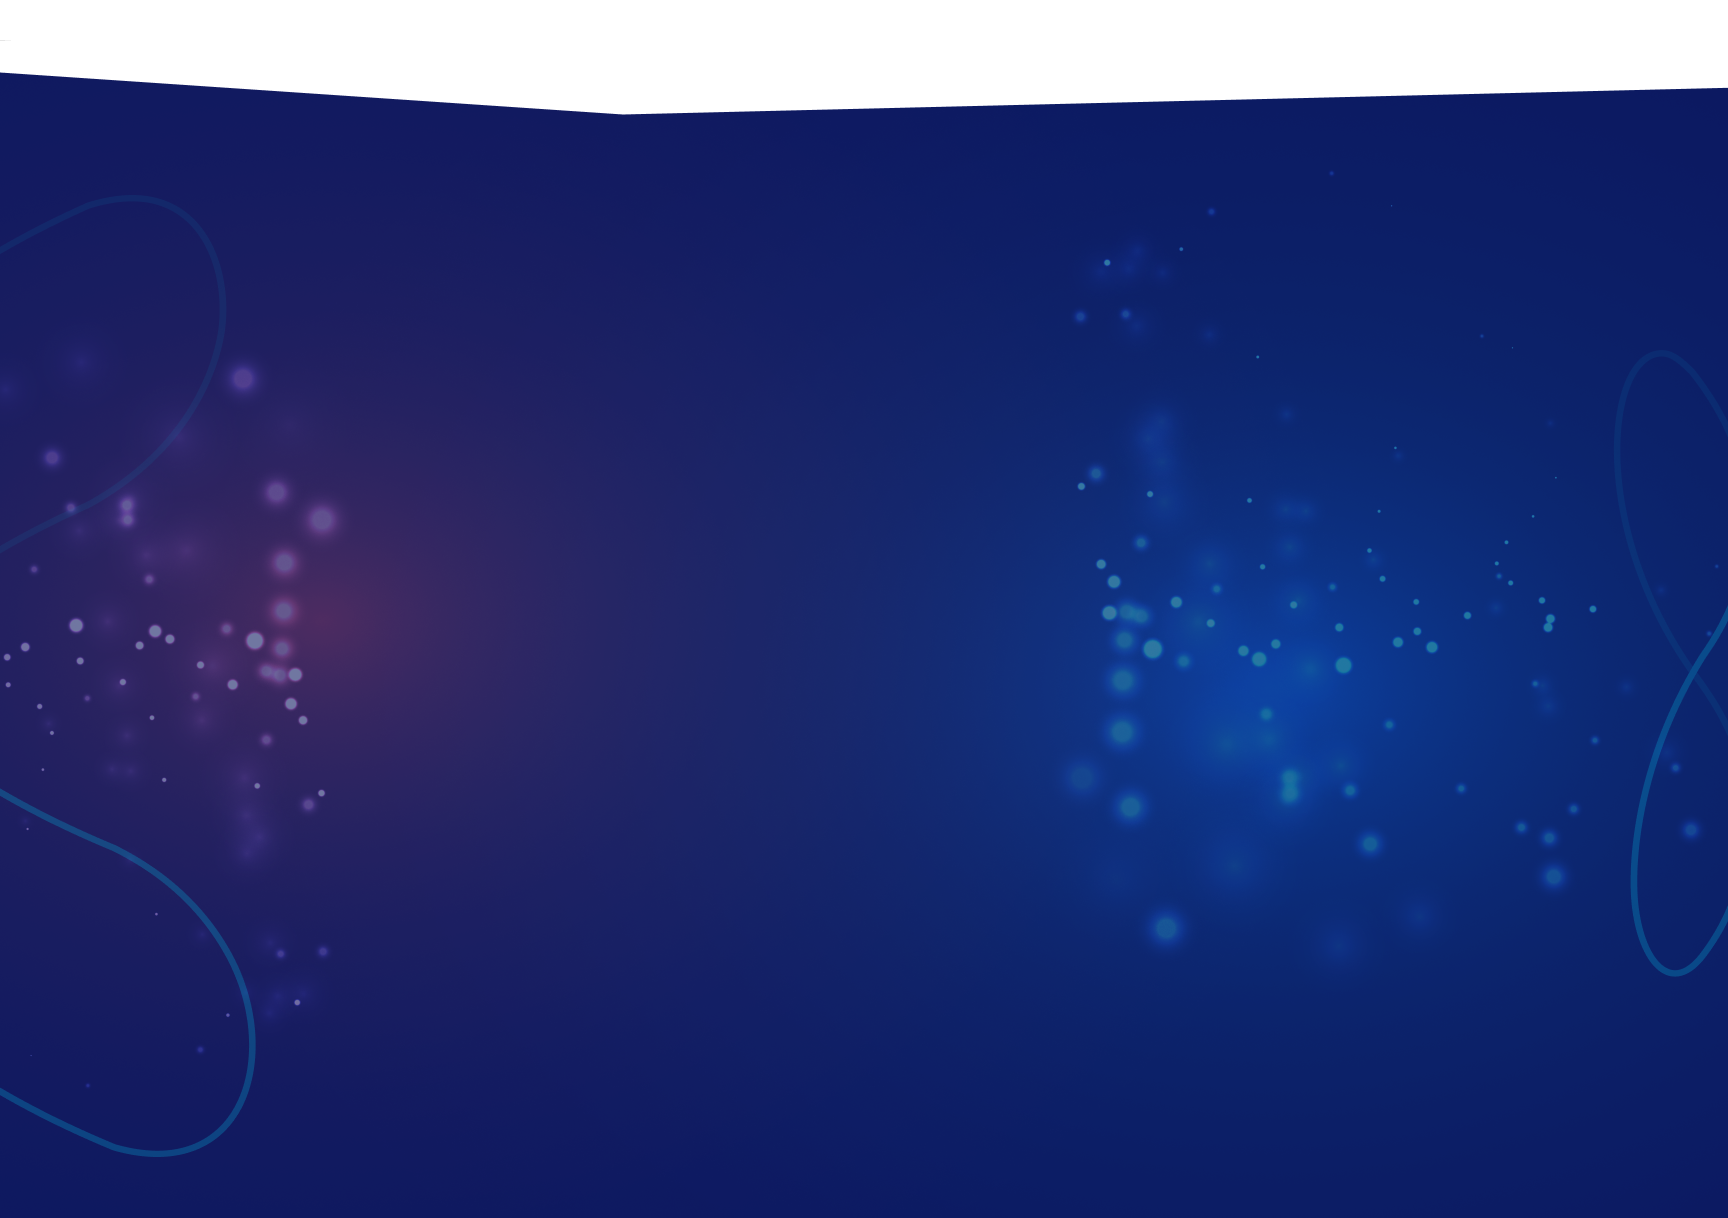
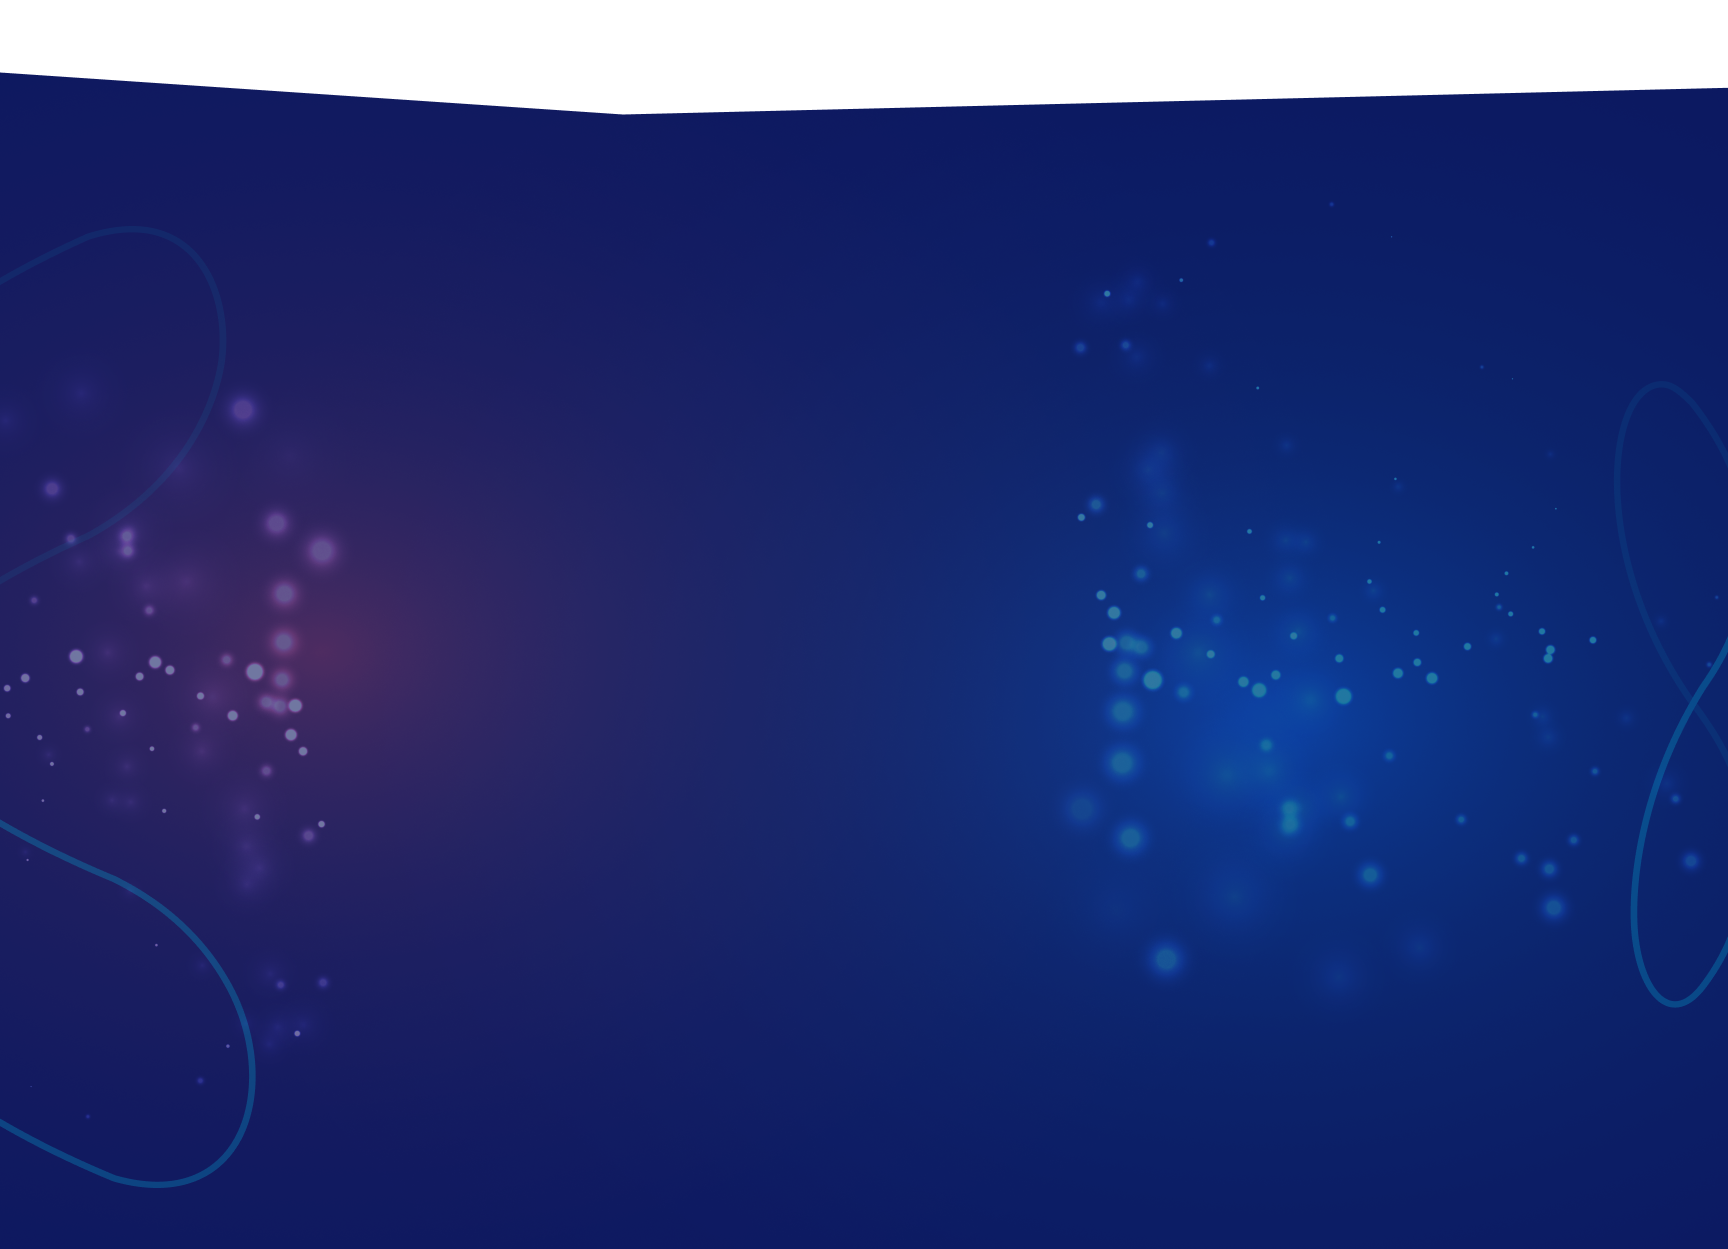
fix resopnsive

diff --git a/index.html b/index.html
@@ -106,13 +106,13 @@
                 </p>
             </div>
 
-            <div class="d-lg-inline-flex bd-highlight justify-content-lg-center col-lg-12">
+            <div class="d-lg-inline-flex bd-highlight justify-content-lg-center col-lg-12 mb-0">
                 <div class="p-2 align-self-center">
-                    <img src="./images/part-2/FPPT.png" alt="">
+                    <img src="./images/part-2/FPPT.png" alt="" class="img-fluid">
                     <p class="fs-2 text-center">FPPT</p>
                 </div>
                 <div class="p-2 align-self-center">
-                    <img src="./images/part-2/ABBC.png" alt="">
+                    <img src="./images/part-2/ABBC.png" alt="" class="img-fluid">
                     <p class="fs-2 text-center">ABBC</p>
                 </div>
             </div>
@@ -120,22 +120,25 @@
 
         <!-- Part 3 Product&Service-->
 
-        <div class="position-relative content-bg-img-2">
+        <div class="position-relative">
+            <img src="./images/part-3/bg3.png" class="content-bg-img-1" id="bgId">
 
             <div class="position-absolute top-0 start-50 translate-middle-x mt-5 text-center">
-                <p class="fs-1 text-white"> Product & Service</p>
-                <p class="fs-6 text-white "> ยกระดับธุรกิจให้เติบโต
+                <div class="mt-2">
+                </div>
+                <p class="fs-1 text-white mt-5"> Product & Service</p>
+                <p class="fs-6 text-white mb-5"> ยกระดับธุรกิจให้เติบโต
                     และสร้างรากฐานที่มั่นคงเตรียมศักยภาพความพร้อมในการแข่งขัน ที่เพิ่มขึ้นในอนาคต</p>
             </div>
 
-            <div class="position-absolute top-0 start-0 mt-5 pt-5">
+            <div class="position-absolute top-0 start-0 mt-5 pt-5" id="component4">
                 <img src="./images/part-3/Frame (1).png" alt="">
             </div>
-            <div class="position-absolute top-50 end-0 translate-middle-y mt-5 pt-5">
+            <div class="position-absolute top-50 end-0 translate-middle-y mt-5 pt-5" id="component5">
                 <img src="./images/part-3/Frame (2).png" alt="">
             </div>
 
-            <div class="position-absolute top-50 start-50 translate-middle mt-5 pt-4 text-center">
+            <div class="position-absolute top-50 start-50 translate-middle mt-5 pt-5 text-center" id="part3mobile">
                 <div class="d-md-inline-flex  flex-nowrap flex-row bd-highlight mt-5" style="height: 700px;">
                     <div class="mx-4 d-flex align-self-end mb-3 ">
                         <div class="card-1">
@@ -158,7 +161,7 @@
 
                         </div>
                     </div>
-                    <div class="mx-4 d-flex align-self-center mb-2">
+                    <div class="mx-4 d-flex align-self-center mb-3">
                         <div class="card-2 pt-5">
                             <img src="./images/part-3/Group (2).png" class="center mt-5">
                             <p class="text-white fs-2 mt-3">ระบบบริหารจัดการดิจิตอลแอสเซท</p>
@@ -253,11 +256,11 @@
 
             </div>
             <p class="text-center mt-5">Copyright © 2022 www.coreasset.fund All rights reserved.</p>
-    </div>
 
 
 
-    </footer>
+
+        </footer>
 
     </div>
     <script src="https://cdn.jsdelivr.net/npm/typed.js@2.0.12"></script>

diff --git a/script.js b/script.js
@@ -2,9 +2,11 @@ window.addEventListener('resize', function () {
   if (window.innerWidth < 1400) {
     removeComponent();
     addFont();
+    addBackGround();
   } else {
     addComponent();
     removeFont();
+    removeBackGround();
   }
 });
 
@@ -12,18 +14,26 @@ const removeComponent = () => {
   var element1 = document.getElementById('component1');
   var element2 = document.getElementById('component2');
   var element3 = document.getElementById('component3');
+  var element4 = document.getElementById('component4');
+  var element5 = document.getElementById('component5');
   element1.classList.add('hidden-component');
   element2.classList.add('hidden-component');
   element3.classList.add('hidden-component');
+  element4.classList.add('hidden-component');
+  element5.classList.add('hidden-component');
 };
 
 const addComponent = () => {
   var element1 = document.getElementById('component1');
   var element2 = document.getElementById('component2');
   var element3 = document.getElementById('component3');
+  var element4 = document.getElementById('component4');
+  var element5 = document.getElementById('component5');
   element1.classList.remove('hidden-component');
   element2.classList.remove('hidden-component');
   element3.classList.remove('hidden-component');
+  element4.classList.remove('hidden-component');
+  element5.classList.remove('hidden-component');
 };
 
 const addFont = () => {
@@ -36,4 +46,24 @@ const removeFont = () => {
   var element1 = document.getElementById('text-context');
   element1.classList.add('content-text-header-1');
   element1.classList.remove('content-text-header-2', 'text-center');
+};
+
+const addBackGround = () => {
+  document.getElementById('bgId').src = './images/part-3-mobile/bg3-mobile.png';
+  var element1 = document.getElementById('bgId');
+  var element2 = document.getElementById('part3mobile');
+  element1.classList.add('content-bg-img-2');
+  element1.classList.remove('content-bg-img-1');
+  element2.classList.add('position-mobile');
+  element2.classList.remove('top-50');
+};
+
+const removeBackGround = () => {
+  document.getElementById('bgId').src = './images/part-3/bg3.png';
+  var element1 = document.getElementById('bgId');
+  var element2 = document.getElementById('part3mobile');
+  element1.classList.add('content-bg-img-1');
+  element1.classList.remove('content-bg-img-2');
+  element2.classList.add('top-50');
+  element2.classList.remove('position-mobile');
 };

diff --git a/styles.css b/styles.css
@@ -10,15 +10,8 @@
   height: 60rem;
 }
 .content-bg-img-2 {
-  background-image: url('./images/part-3/bg3.png');
-  /* Full height */
-  height: 60rem;
-
-  /* Center and scale the image nicely */
-  background-position: center;
-  background-repeat: no-repeat;
-  background-size: cover;
-  z-index: -1;
+  height: 120rem;
+  width: 100%;
 }
 .content-logo-img-1 {
   margin-top: 550px;
@@ -65,7 +58,7 @@
 .card-1 {
   box-sizing: border-box;
   width: 300px;
-  height: 556px;
+  height: 546px;
   background: linear-gradient(
     116.79deg,
     rgba(255, 255, 255, 0.48) 0%,
@@ -78,7 +71,7 @@
 .card-2 {
   /* Glass */
   width: 300px;
-  height: 556px;
+  height: 546px;
   box-sizing: border-box;
   background: linear-gradient(
     116.79deg,
@@ -92,7 +85,7 @@
 .card-3 {
   /* Glass */
   width: 300px;
-  height: 556px;
+  height: 546px;
   box-sizing: border-box;
   background: linear-gradient(
     116.79deg,
@@ -115,7 +108,15 @@
   visibility: hidden;
 }
 
-/* slide char*/
+.part-3-margin {
+  margin-top: 200px;
+}
+
+.position-mobile {
+  position: absolute;
+  top: 500px;
+}
+/*--------------------------------slide char-------------------------------*/
 
 span {
   color: #fff;
